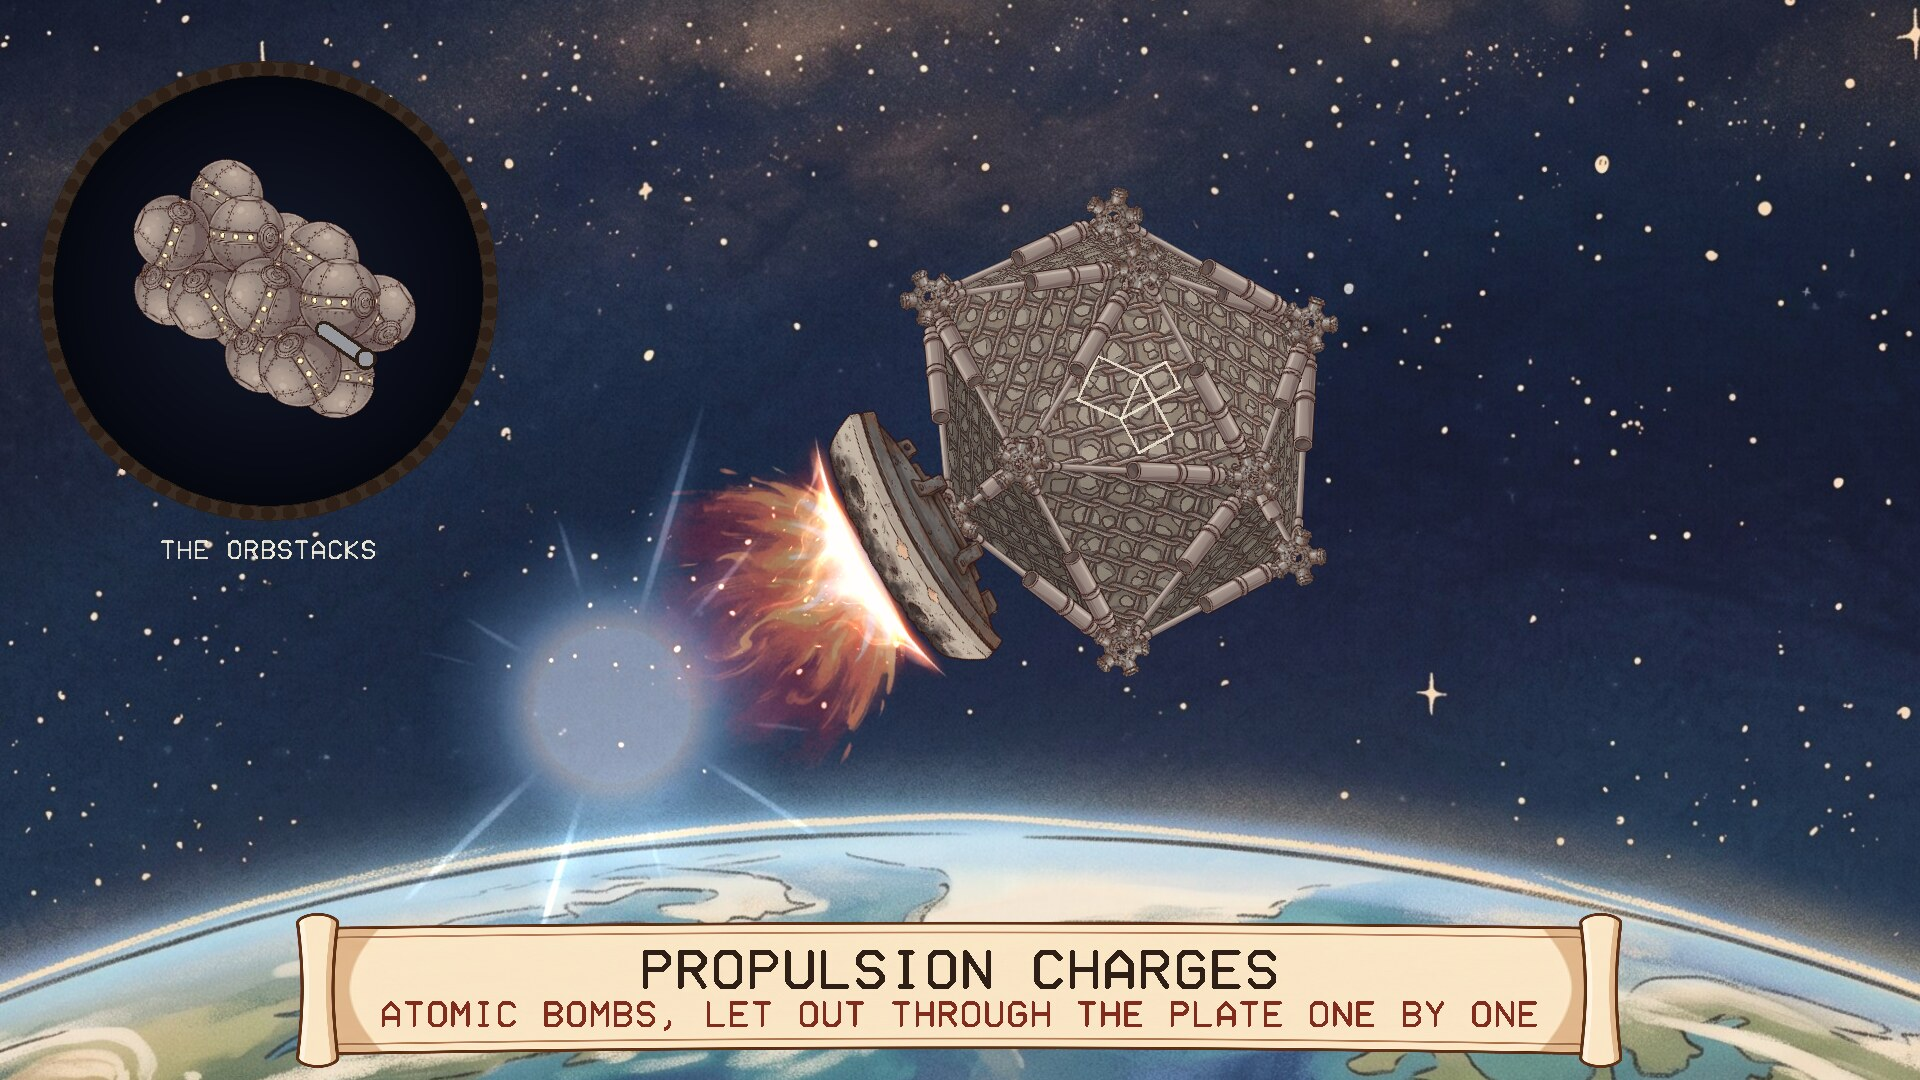
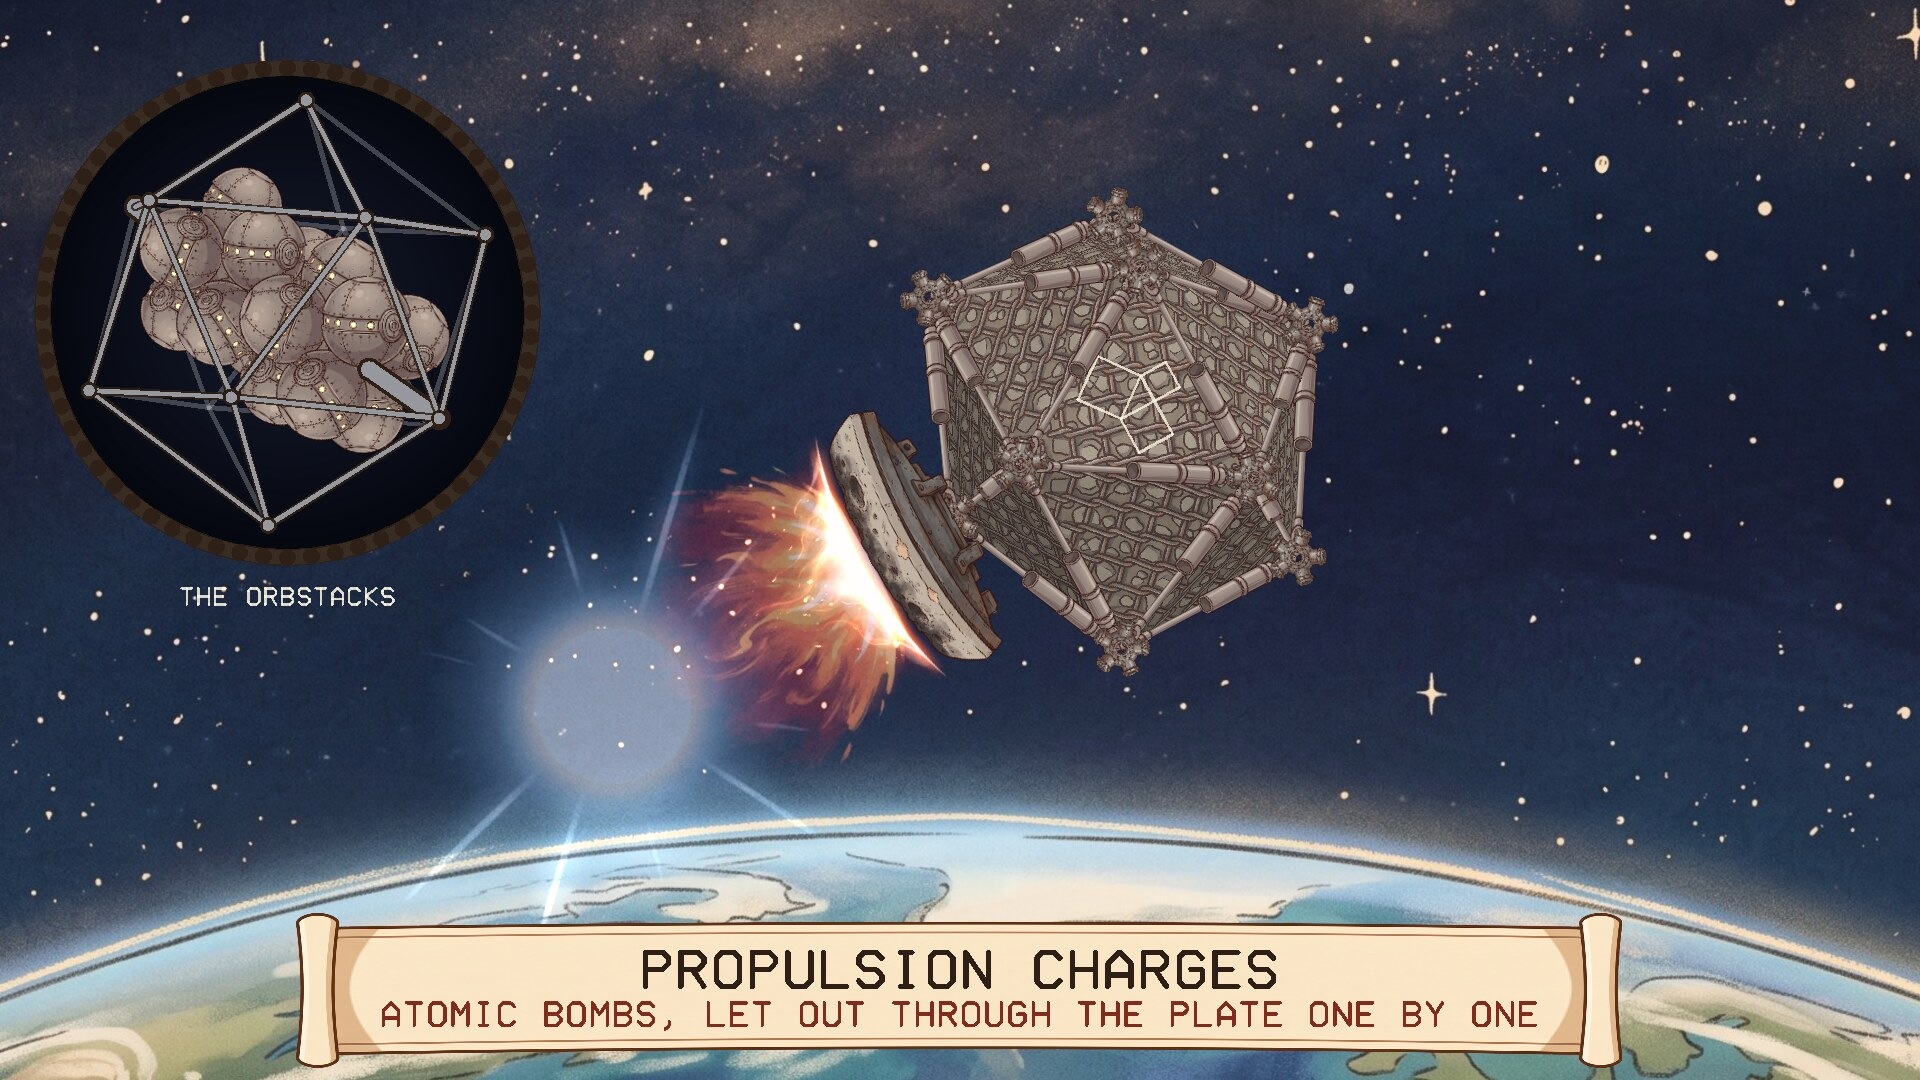
The orbstacks inside their icosahedron, the Core from corner to corner

Changed region(s): [[0.0, 0.0611, 0.2812, 0.5806], [0.0938, 0.0611, 0.125, 0.0917], [0.0625, 0.0917, 0.0938, 0.1222]]

diff --git a/src/urnud.c b/src/urnud.c
@@ -478,7 +478,7 @@ static void caption(const char **l1, const char **l2)
 {
     static char count[64];
     *l1 = "THE DABAN URNUD"; *l2 = "THE GEOMETERS' SHIP, IN ORBIT ABOUT ARBRE";
-    if (T > 8) { *l1 = "INSIDE, THE ORBSTACKS TURN ABOUT THE CORE"; *l2 = "FOUR LEVELS OF FOUR ORBS, EACH NESTED IN THE HOLLOWS OF THE LAST"; }
+    if (T > 8) { *l1 = "INSIDE, THE ORBSTACKS TURN ABOUT THE CORE"; *l2 = "FOUR LEVELS OF FOUR ORBS, NESTED TO FILL THE ICOSAHEDRON"; }
     if (T >= T_TURN) { *l1 = "A CHANGE OF COURSE"; *l2 = "NO THRUSTERS: COUNTERWEIGHTS ON TRACKS INSIDE SWING IT ROUND"; }
     if (T >= T_BURN - 3) { *l1 = "PROPULSION CHARGES"; *l2 = "ATOMIC BOMBS, LET OUT THROUGH THE PLATE ONE BY ONE"; }
     if (T >= T_BURN + 12) { *l1 = "THIRTY STRUTS, EVERY ONE A SHOCK ABSORBER"; *l2 = "THE BLOW RUNS FORWARD THROUGH THE WHOLE FRAME"; }
@@ -527,19 +527,36 @@ static void draw_core(double cx, double cy, double R)
         o[n].deg = atan2(o[n].y - o[n].hy, o[n].x - o[n].hx) * 180 / M_PI + 90;
     }
     for (int i = 0; i < 16; i++) for (int j = i + 1; j < 16; j++) if (o[j].z < o[i].z) { t = o[i]; o[i] = o[j]; o[j] = t; }
-    double e0 = -2.1 * gap, e1 = 2.1 * gap;
-    line(cx + ax * e0, cy + ay * e0, cx + ax * e1, cy + ay * e1, R * 0.085, col(INK, 1));
-    line(cx + ax * e0, cy + ay * e0, cx + ax * e1, cy + ay * e1, R * 0.055, col(STEEL, 1));
+    /* the icosahedron they fill, corner to corner along the Core: 5 orb-radii from
+     * the middle to a corner is the size at which the stacked orbs just fit it */
+    double big = 5 * rho / RADIUS, fx[NV], fy[NV], fz[NV];
+    for (int i = 0; i < NV; i++) {
+        fx[i] = cx + (ax * rest[i][0] + ux * rest[i][1] + vx * rest[i][2]) * big;
+        fy[i] = cy + (ay * rest[i][0] + uy * rest[i][1] + vy * rest[i][2]) * big;
+        fz[i] = az * rest[i][0] + vz * rest[i][2];
+    }
+    for (int e = 0; e < NE; e++) if (fz[edge[e][0]] + fz[edge[e][1]] <= 0) /* the far struts, behind everything */
+        line(fx[edge[e][0]], fy[edge[e][0]], fx[edge[e][1]], fy[edge[e][1]], R * 0.02, col(STEEL, 0.4));
+    /* the Core, from the corner at the stern to the corner at the bow */
+    line(fx[0], fy[0], fx[11], fy[11], R * 0.1, col(INK, 1));
+    line(fx[0], fy[0], fx[11], fy[11], R * 0.07, col(STEEL, 1));
     flush(ren);
     for (int n = 0; n < 16; n++) {
         double size = 1 + 0.12 * o[n].z / (2 * gap);
         turned(SP_ORB, o[n].x, o[n].y, 2 * rho * size, o[n].deg);
     }
-    /* the near end of the Core, standing out in front of the nearest level */
-    line(cx + ax * 1.2 * gap, cy + ay * 1.2 * gap, cx + ax * e1, cy + ay * e1, R * 0.085, col(INK, 1));
-    line(cx + ax * 1.2 * gap, cy + ay * 1.2 * gap, cx + ax * e1, cy + ay * e1, R * 0.055, col(STEEL, 1));
-    disc(cx + ax * e1, cy + ay * e1, R * 0.05, col(INK, 1), col(INK, 1));
-    disc(cx + ax * e1, cy + ay * e1, R * 0.034, col(STEEL, 1), col(STEEL, 1));
+    /* the near end of the Core, coming out of the stack towards us */
+    double nx = cx + ax * 1.6 * gap, ny = cy + ay * 1.6 * gap;
+    line(nx, ny, fx[11], fy[11], R * 0.1, col(INK, 1));
+    line(nx, ny, fx[11], fy[11], R * 0.07, col(STEEL, 1));
+    for (int e = 0; e < NE; e++) if (fz[edge[e][0]] + fz[edge[e][1]] > 0) { /* the near struts, over the orbs */
+        line(fx[edge[e][0]], fy[edge[e][0]], fx[edge[e][1]], fy[edge[e][1]], R * 0.034, col(INK, 0.85));
+        line(fx[edge[e][0]], fy[edge[e][0]], fx[edge[e][1]], fy[edge[e][1]], R * 0.018, col(STEEL, 1));
+    }
+    for (int i = 0; i < NV; i++) if (fz[i] > -0.05) {
+        disc(fx[i], fy[i], R * 0.036, col(INK, 1), col(INK, 1));
+        disc(fx[i], fy[i], R * 0.024, col(STEEL, 1), col(STEEL, 1));
+    }
     ring(cx, cy, R * 1.03, R * 0.07, col(INK, 0.9));
     flush(ren);
 }
@@ -594,7 +611,7 @@ static void draw_scene(SDL_Renderer *r, int w, int h)
 
     double grow = ease(ramp(T, 6, 9)) * (1 - ease(ramp(T, ROUND - 6, ROUND - 3)));
     if (grow > 0.01) {
-        double R = h * 0.2 * grow, cx = w * 0.14, cy = h * 0.27;
+        double R = h * 0.22 * grow, cx = w * 0.15, cy = h * 0.29;
         draw_core(cx, cy, R);
         if (grow > 0.9) text("THE ORBSTACKS", cx, cy + R * 1.16, unit * 0.2, 0.9, col(PAPER, 0.85));
     }

diff --git a/README.md b/README.md
@@ -23,7 +23,9 @@ One change of course, about a minute and a half, then another at a different ang
 - **In orbit.** The ship coasts over Arbre. Arbre slides by underneath. A round window shows the
   orbstacks inside: four levels of four orbs about the Core, the four in a level
   touching, and each level turned an eighth of a turn so that it nests in the
-  hollows of the last. They all go round together and never stop.
+  hollows of the last. Stacked like that they fill the icosahedron, which is
+  drawn round them, with the Core running through from the corner at the stern
+  to the corner at the bow. They all go round together and never stop.
 - **The turn.** No thrusters. Counterweights run round tracks inside the ship,
   out of sight, and the ship swings round the other way.
 - **The burn.** A charge drops out through the plate every second or two, flies a
@@ -65,7 +67,7 @@ Packages are on the [releases page](../../releases).
 
 ### Windows
 
-Run `DabanUrnud-Setup-1.0.3.exe`. It asks for administrator rights, because Windows
+Run `DabanUrnud-Setup-1.0.4.exe`. It asks for administrator rights, because Windows
 only lists screensavers that are in its own system folder. After that "The Daban
 Urnud" is in Screen Saver Settings with the others, already selected. Uninstall from
 Apps.
@@ -74,11 +76,11 @@ Apps.
 
 **Fedora, Nobara** (built on Fedora 44):
 
-    sudo dnf install ./daban-urnud-1.0.3-1.fc44.x86_64.rpm
+    sudo dnf install ./daban-urnud-1.0.4-1.fc44.x86_64.rpm
 
 **Debian, Ubuntu, Mint** (Ubuntu 24.04 / Debian 13 or later):
 
-    sudo apt install ./daban-urnud_1.0.3_amd64.deb
+    sudo apt install ./daban-urnud_1.0.4_amd64.deb
 
 From your next login it starts by itself after five minutes idle, and any key or
 mouse movement ends it. To start the watcher without logging out, or to change the
